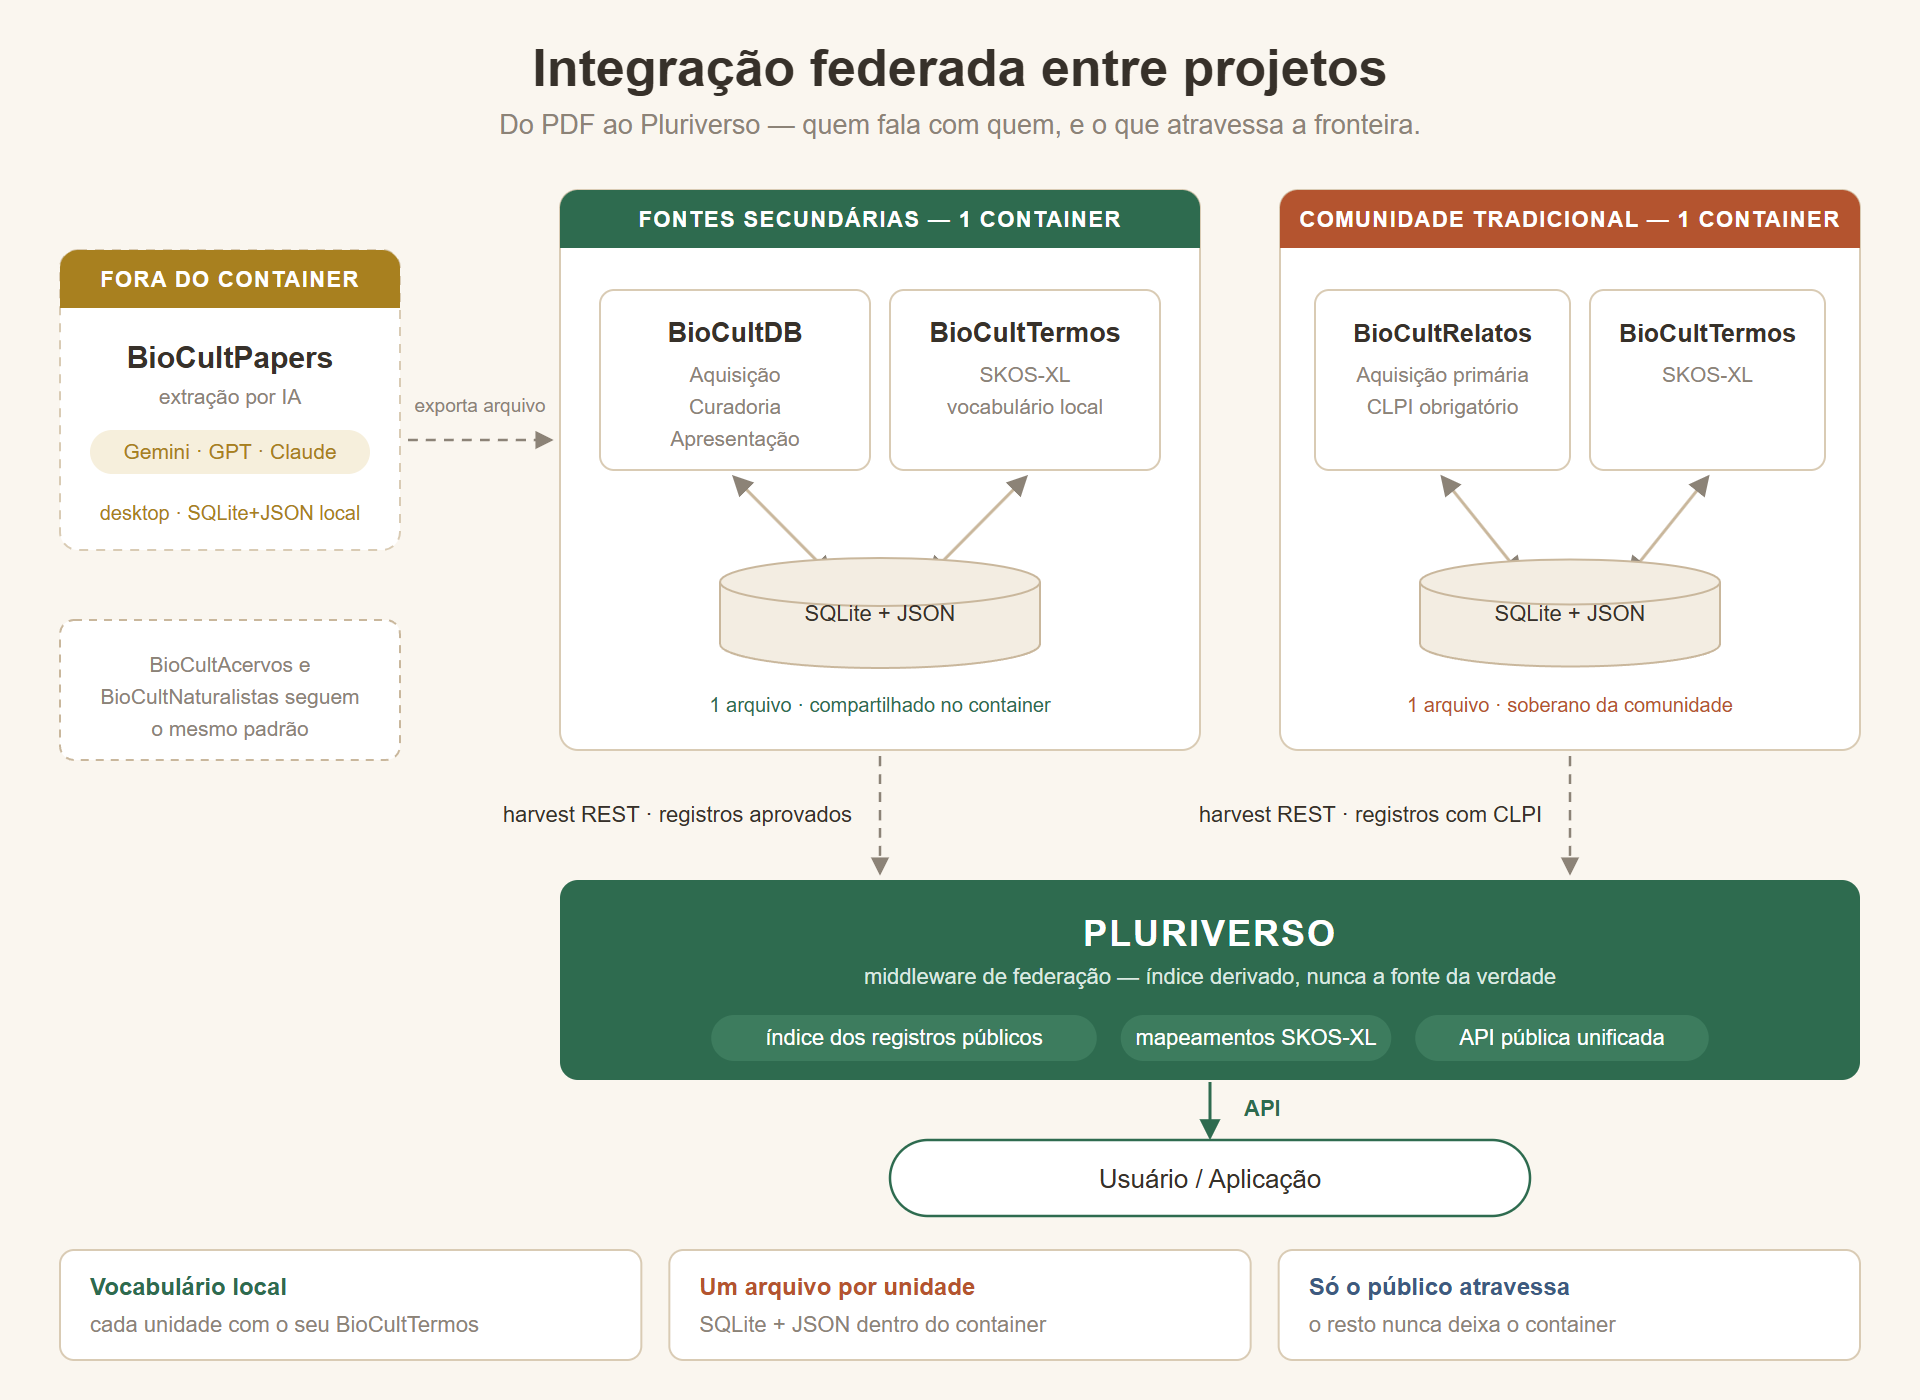
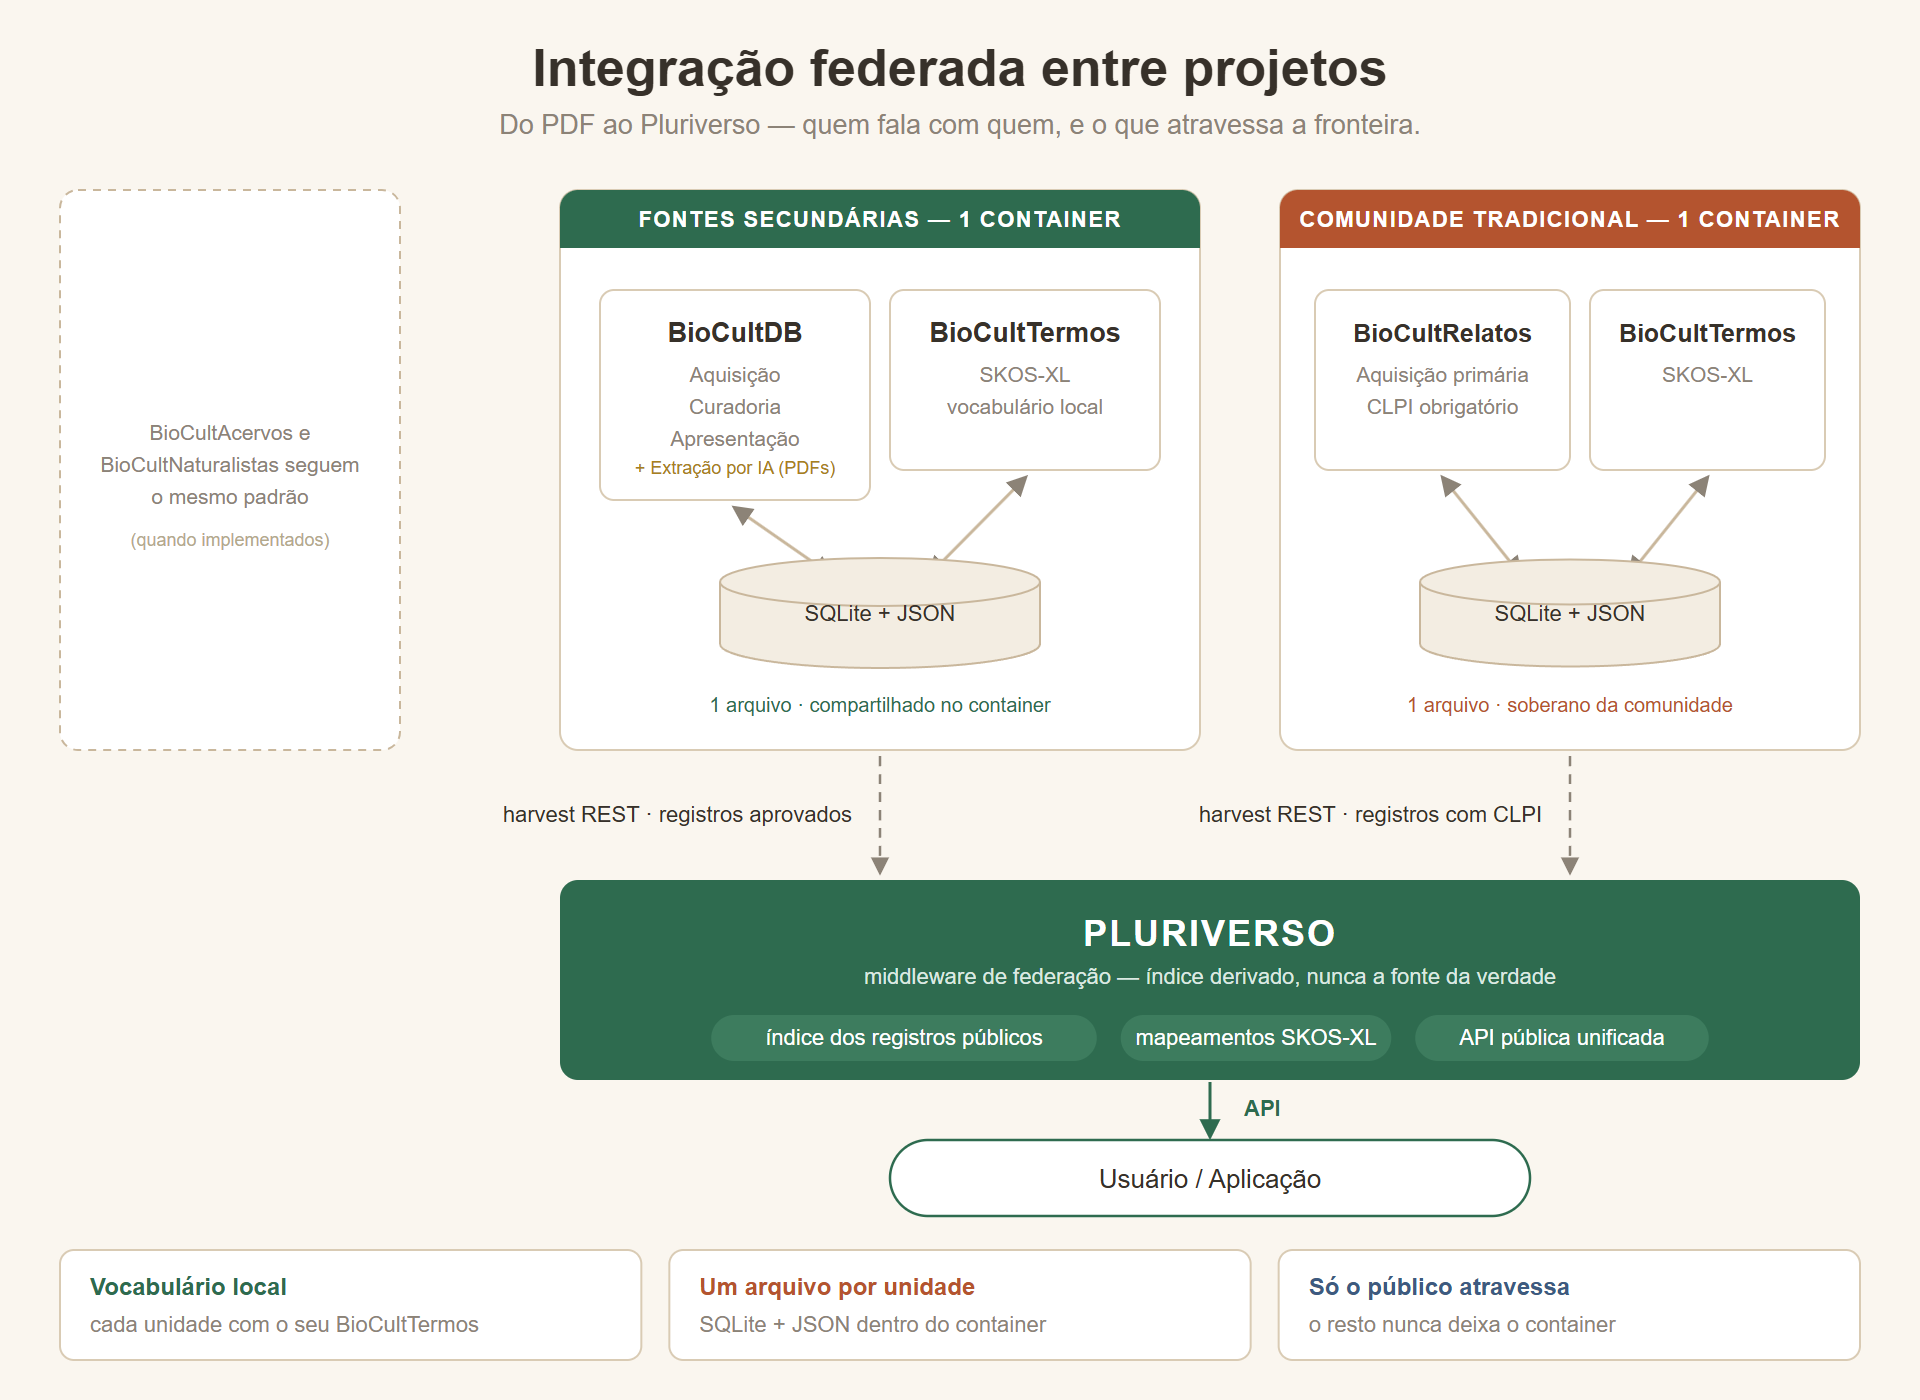
docs: atualiza README e diagramas — remove BioCultPapers como componente separado

diff --git a/README.md b/README.md
@@ -88,11 +88,11 @@ Esta arquitetura não é a primeira a buscar sistematizar conhecimento tradicion
 
 ---
 
-## Arquitetura do Sistema — Versão 3.4 (Federada)
+## Arquitetura do Sistema — Versão 3.5 (Federada)
 
-A versão 3.4 mantém o sistema organizado como uma **federação de entidades soberanas**, conectadas pelo **Pluriverso**, acolhendo quatro tipos de fonte de evidência. Cada membro da federação mantém sua própria infraestrutura de dados — um único arquivo SQLite compartilhado entre suas ferramentas — e vocabulários. O Pluriverso coleta periodicamente os registros públicos de cada membro e os disponibiliza via API unificada. O que a v3.4 acrescenta não é técnico: é a [camada de governança](governanca/propostaGovernanca.md) que define quem decide sobre cada uma dessas peças.
+A versão 3.5 mantém o sistema organizado como uma **federação de entidades soberanas**, conectadas pelo **Pluriverso**, acolhendo quatro tipos de fonte de evidência. Cada membro da federação mantém sua própria infraestrutura de dados — um único arquivo SQLite compartilhado entre suas ferramentas — e vocabulários. O Pluriverso coleta periodicamente os registros públicos de cada membro e os disponibiliza via API unificada. A v3.4 acrescentou a [camada de governança](governanca/propostaGovernanca.md) que define quem decide sobre cada uma dessas peças; a v3.5 absorve o **BioCultPapers** pelo **BioCultDB** ([ADR-011](docs/architecture-decisions/ADR-011-absorcao-biocultpapers.md)) — a extração de dados por IA deixa de ser aplicativo desktop separado e passa a ser a funcionalidade **Extração por IA**, nativa do contexto de Aquisição.
 
-![Arquitetura BioCultural — versão 3.4, visão geral federada](docs/arquitetura-biocultural.png)
+![Arquitetura BioCultural — versão 3.5, visão geral federada](docs/arquitetura-biocultural.png)
 
 > **Leitura recomendada:** o artigo do blog [*Arquitetando — Biodiversidade, Dados e Metadados*](https://eduardo.dalc.in/arquitetando/) explica, de forma didática e ilustrada, toda esta arquitetura federada — as quatro fontes de evidência, a soberania via SQLite+JSON, o papel do Pluriverso e a aposta na repartição de benefícios rastreável.
 
@@ -561,7 +561,7 @@ Zank, S., Julião, C. G., de Lima, A. S., da Silva, M. T., Levis, C., Hanazaki, 
 
 ## Histórico de Versões
 
-Para acompanhar a evolução completa desta arquitetura, consulte o [CHANGELOG.md](CHANGELOG.md) que documenta todas as versões e mudanças significativas desde a versão 1.0.0 inicial até a versão 3.4.0 (proposta de governança para toda a plataforma, sobre a base federada com Pluriverso instanciável e persistência SQLite+JSON por unidade).
+Para acompanhar a evolução completa desta arquitetura, consulte o [CHANGELOG.md](CHANGELOG.md) que documenta todas as versões e mudanças significativas desde a versão 1.0.0 inicial até a versão 3.5.0 (absorção do BioCultPapers pelo BioCultDB, sobre a base federada com governança proposta, Pluriverso instanciável e persistência SQLite+JSON por unidade).
 
 ---
 

diff --git a/governanca/propostaGovernanca.md b/governanca/propostaGovernanca.md
@@ -386,7 +386,7 @@ Proveniência é o que separa um registro de conhecimento tradicional de um dado
 
 | Fonte | Cadeia de proveniência exigida |
 |---|---|
-| **Fontes secundárias** (BioCultDB / BioCultPapers) | `source.secondary` com referência completa, DOI/ISBN, página; identificação de quem extraiu (`extractedBy`) e por qual método (`extractionMethod`) — extração automatizada por IA precisa ser declarada como tal, não apresentada como leitura humana |
+| **Fontes secundárias** (BioCultDB, inclui Extração por IA) | `source.secondary` com referência completa, DOI/ISBN, página; identificação de quem extraiu (`extractedBy`) e por qual método (`extractionMethod`) — extração automatizada por IA precisa ser declarada como tal, não apresentada como leitura humana |
 | **Fontes primárias** (BioCultRelatos) | `source.primary` com método de coleta, data, quem coletou, informantes (com `anonymized` quando for o caso) e aprovação ética (`ethicsApproval`), somados ao bloco `community.consent` (§5.3) |
 | **Acervos** (BioCultAcervos) | Identificação da instituição custodiante, número de tombo ou registro, data de entrada no acervo e, quando conhecida, a cadeia de aquisição — inclusive quando ela é problemática |
 | **Naturalistas** (BioCultNaturalistas) | Obra, edição, página, autor, viagem e data; quando a obra nomeia quem prestou a informação, esse nome é parte da proveniência e não deve ser descartado como detalhe |
